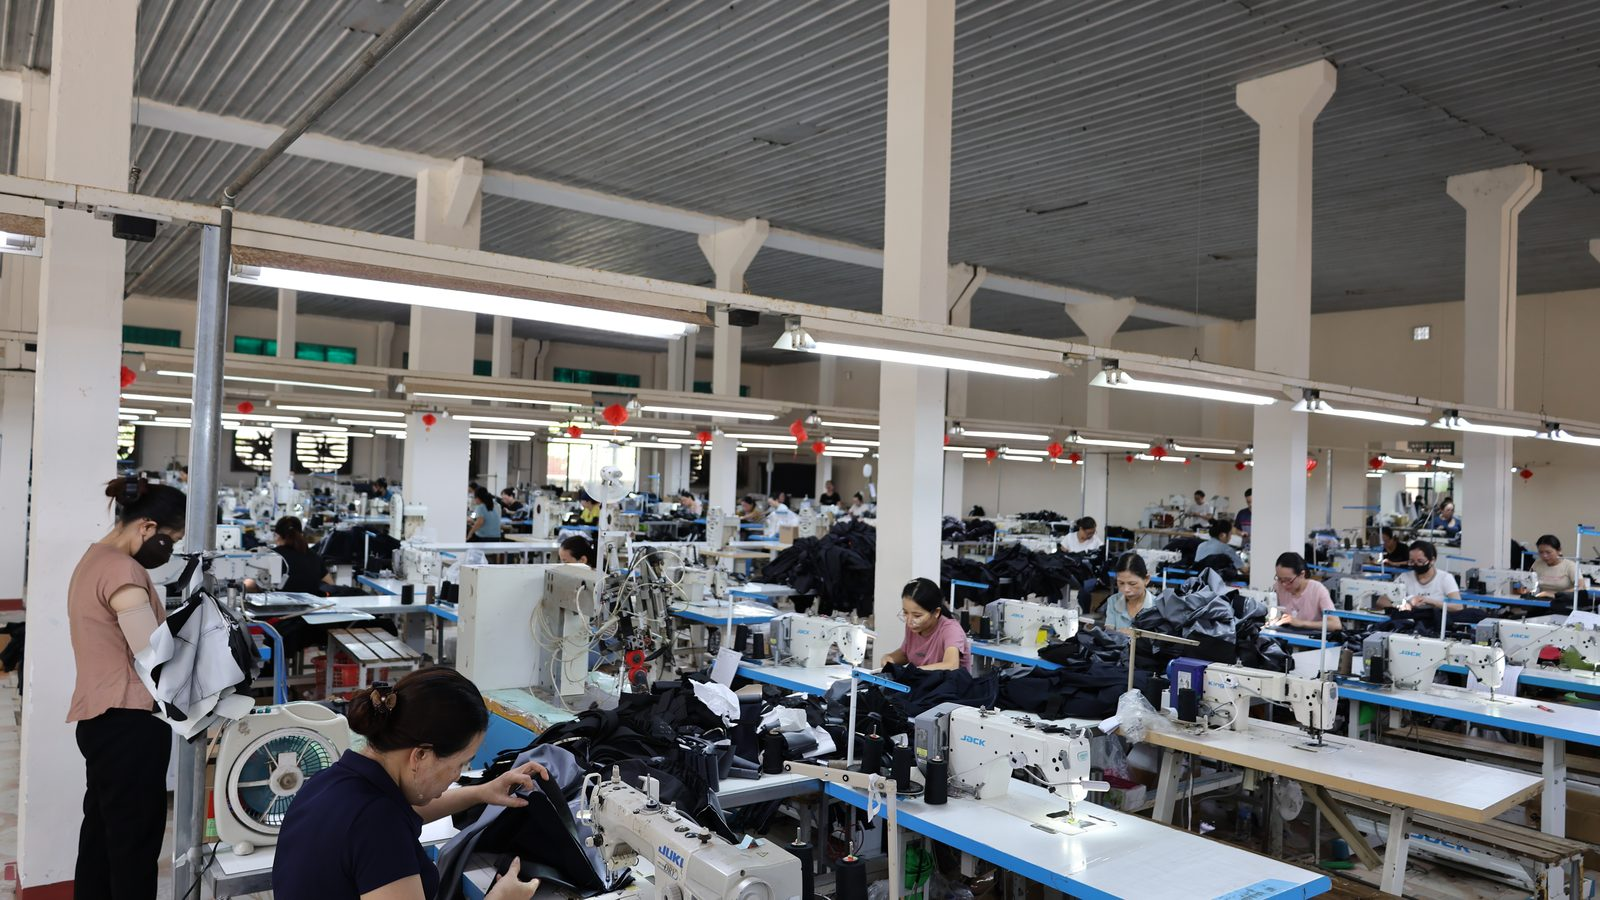
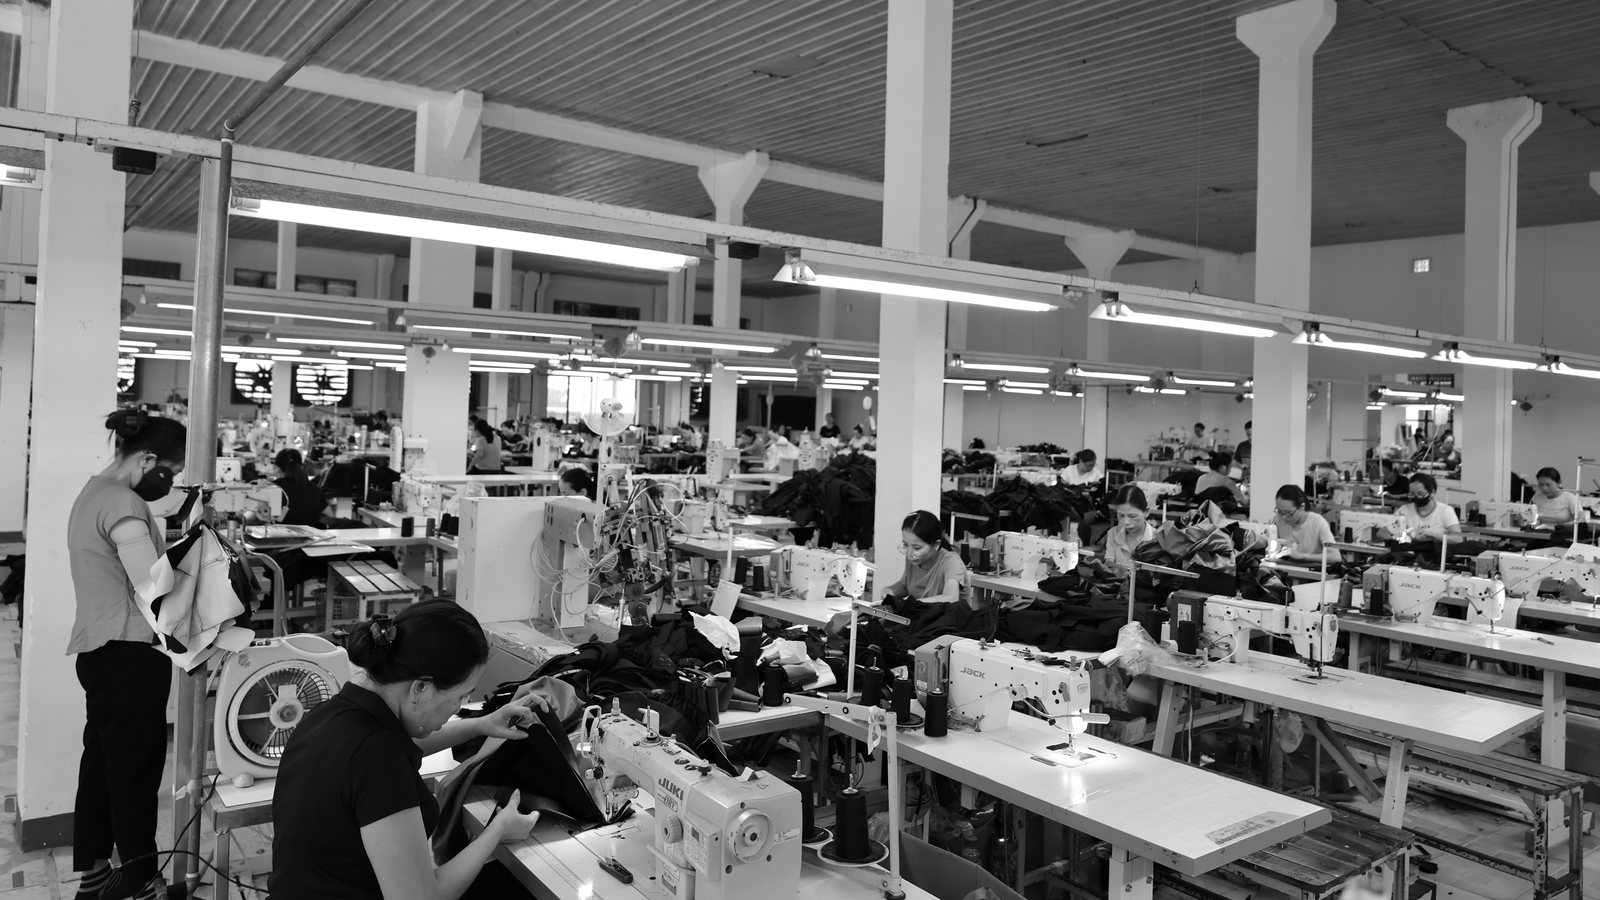
Ảnh Về chúng tôi (trang chủ): crop hạ thấp bớt trần nhà + chuyển đen trắng

diff --git a/public/index.html b/public/index.html
@@ -105,7 +105,7 @@
         <div class="split">
           <div class="split__media" data-reveal>
             <div class="media-frame">
-              <img src="assets/img/floor.jpg?v=2" alt="Nhà xưởng sản xuất May Đông Thành" width="1600" height="900">
+              <img src="assets/img/floor.jpg?v=3" alt="Nhà xưởng sản xuất May Đông Thành" width="1600" height="900">
               <span class="media-tag" data-en="Quang Ngai facility">Xưởng tại Quảng Ngãi</span>
             </div>
           </div>
